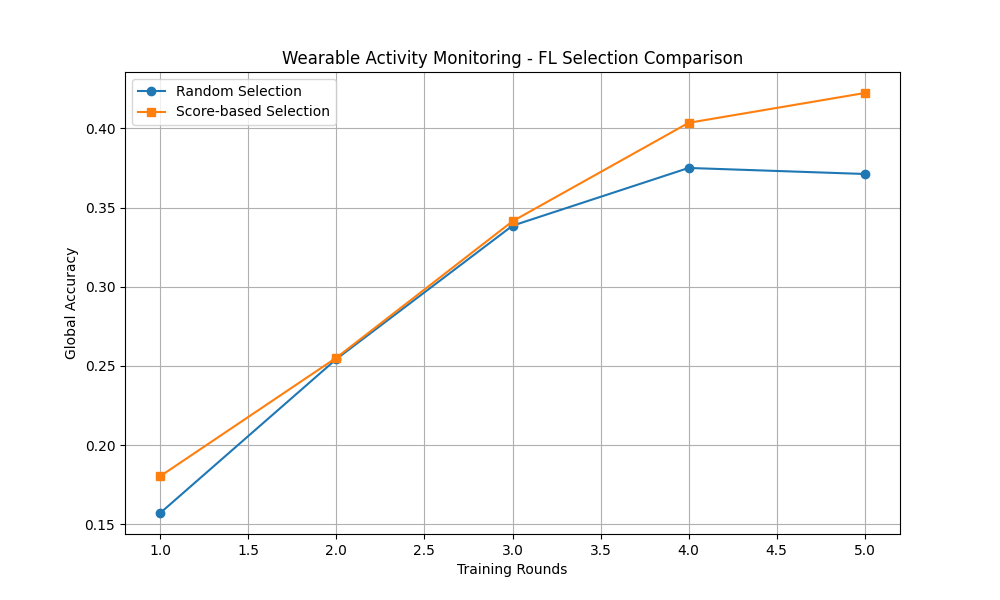
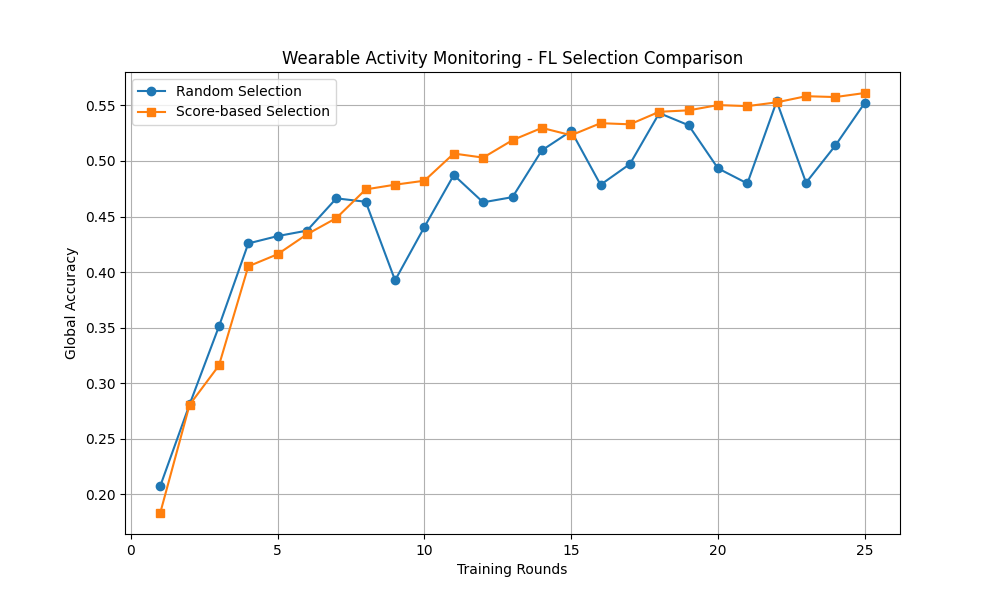
Update FL scoring and participation counts

diff --git a/examples/quickstart-pytorch/pytorchexample/server_app.py b/examples/quickstart-pytorch/pytorchexample/server_app.py
@@ -83,7 +83,12 @@ class CustomFedAvg(FedAvg):
             print(f"\n[Round {server_round}] Current score table (Logical ID -> Score):")
             print(self.client_scores)
 
-            if not self.client_scores:
+            # WARM-UP: use random selection for first 2 rounds
+            if server_round <= 2:
+                rng = np.random.default_rng(server_round)
+                k = min(clients_per_round, len(all_logical_ids))
+                chosen_logical = rng.choice(all_logical_ids, size=k, replace=False).tolist()
+            elif not self.client_scores:
                 # Round 1: No previous scores exist, fallback to random
                 print(f"[Round {server_round}] No scores exist yet. Falling back to random selection.")
                 rng = np.random.default_rng(server_round)

diff --git a/examples/quickstart-pytorch/run_experiments.py b/examples/quickstart-pytorch/run_experiments.py
@@ -140,7 +140,7 @@ if __name__ == "__main__":
     if os.path.exists("experiment_results.csv"):
         os.remove("experiment_results.csv")
         
-    run_experiment(selection_mode="random", num_rounds=5, clients_per_round=5, alpha=0.1)
-    run_experiment(selection_mode="score", num_rounds=5, clients_per_round=5, alpha=0.1)
+    run_experiment(selection_mode="random", num_rounds=25, clients_per_round=5, alpha=0.1)
+    run_experiment(selection_mode="score", num_rounds=25, clients_per_round=5, alpha=0.1)
     
     plot_results()
